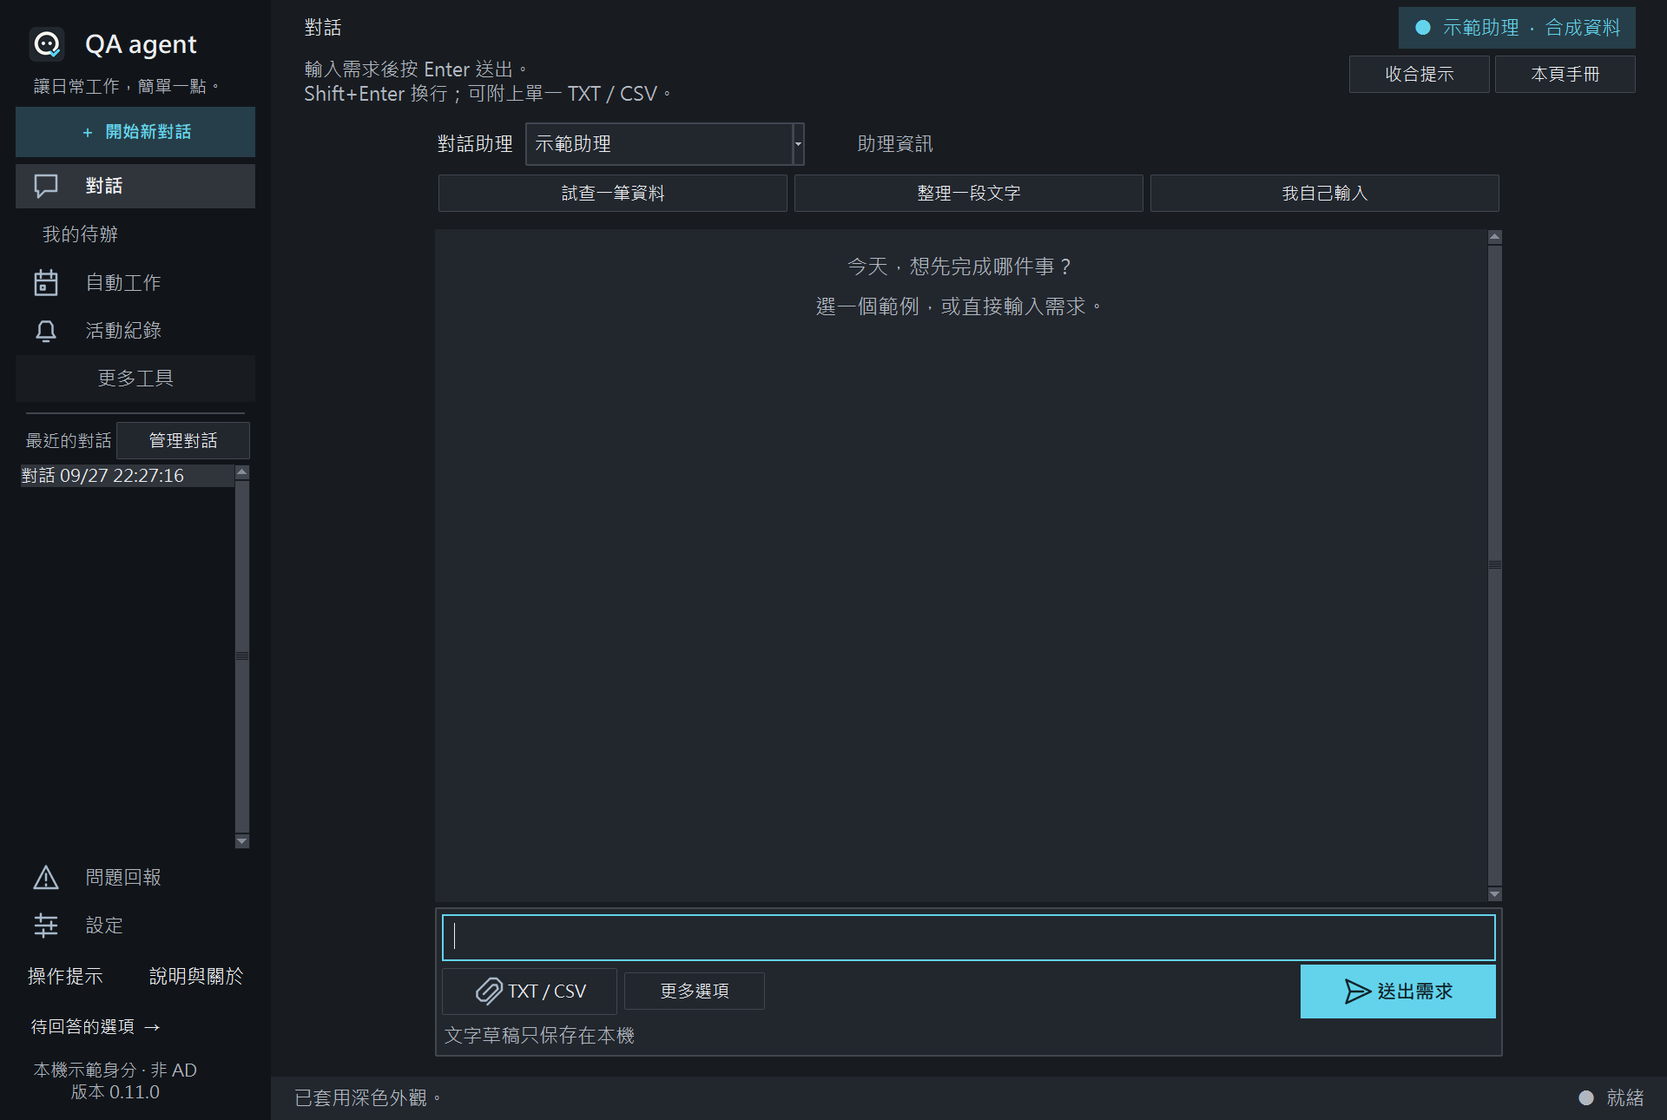
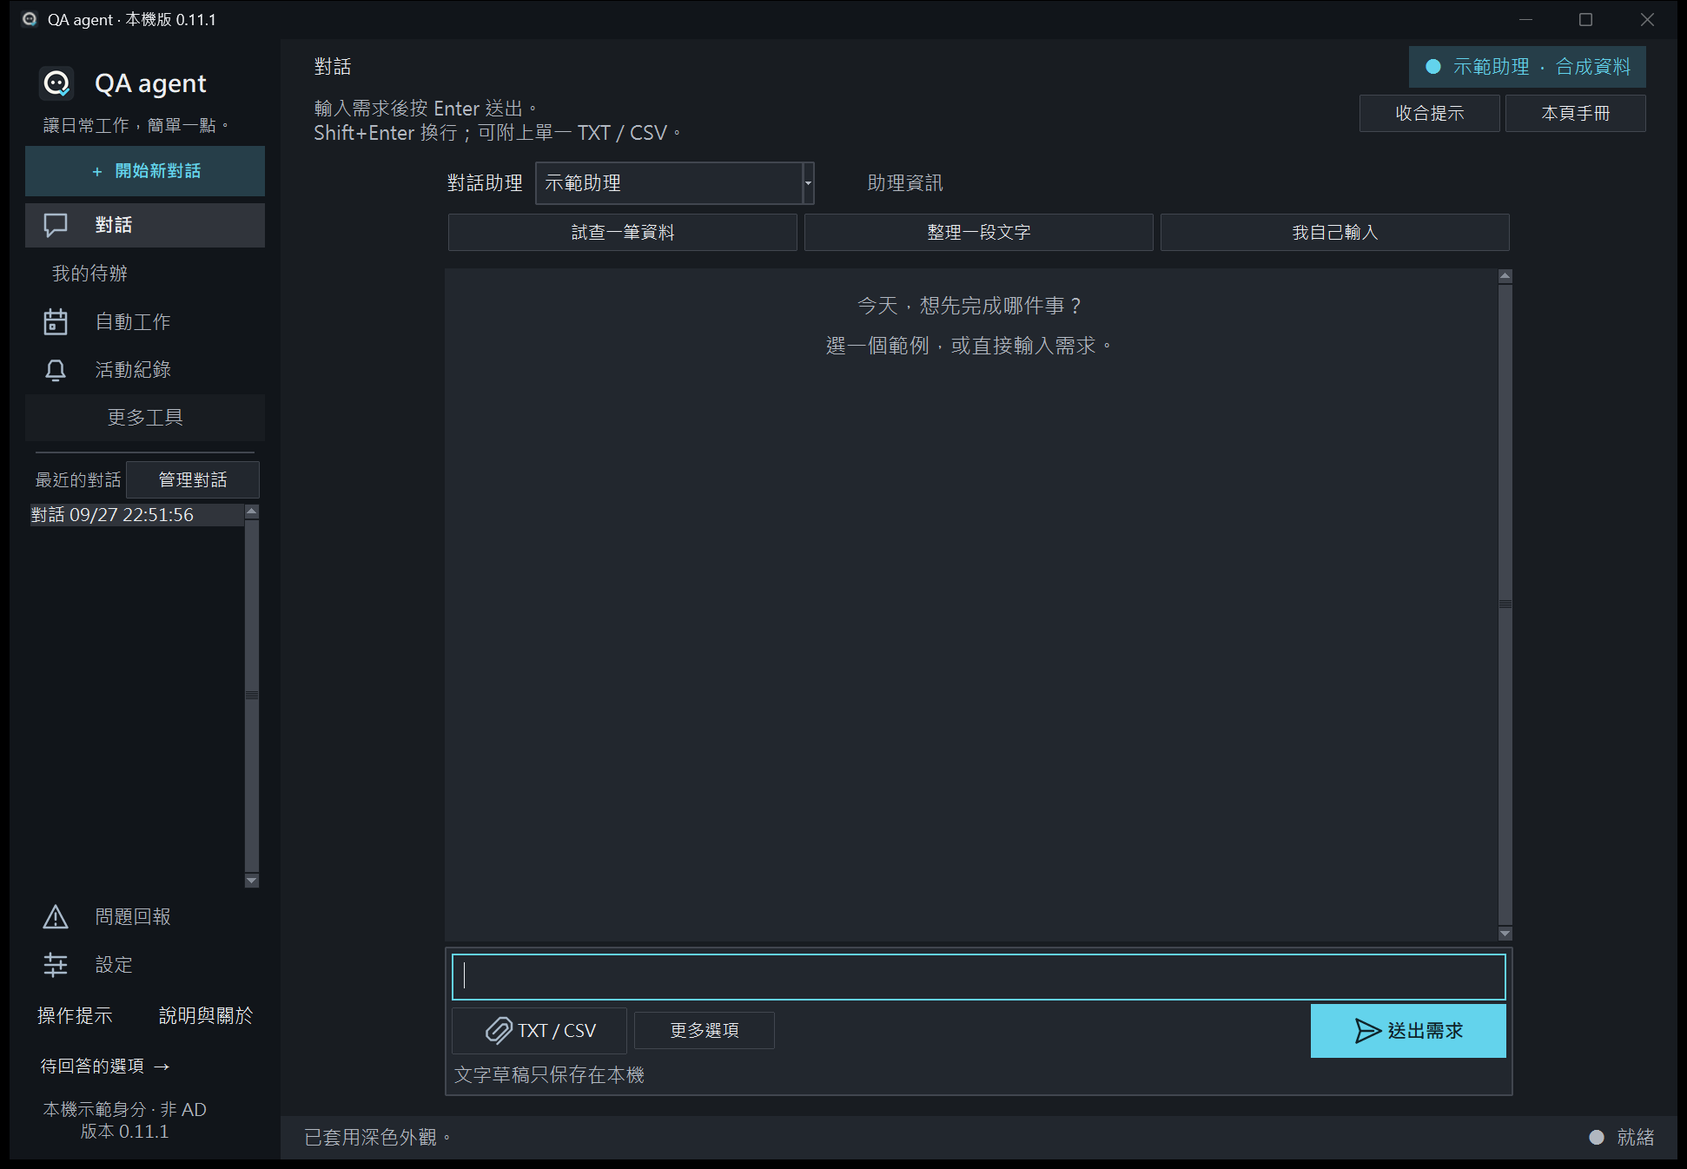
Release 0.11.1 themed dialogs and native title bars

diff --git a/desktop_app/dialogs.py b/desktop_app/dialogs.py
@@ -1,0 +1,87 @@
+"""Theme-aware app messages. Native fallback only before appearance is available."""
+import tkinter as tk
+from tkinter import ttk, messagebox as native
+from .branding import apply_child_icons, APP_NAME
+from .display import Display, work_area
+
+
+class MessageDialog(tk.Toplevel):
+    def __init__(self,parent,title,message,kind='info',question=False):
+        super().__init__(parent)
+        self.withdraw();self.result=False if question else 'ok'
+        self.parent=parent;self.previous_grab=parent.grab_current();self.previous_focus=parent.focus_get()
+        self.title(APP_NAME+' · '+title)
+        if parent.winfo_viewable():self.transient(parent.winfo_toplevel())
+        apply_child_icons(self)
+        appearance=parent._root()._qa_appearance
+        display=getattr(parent._root(),'_qa_display',None) or Display(parent._root())
+        body=ttk.Frame(self,padding=20);body.pack(fill='both',expand=True)
+        heading=ttk.Frame(body);heading.pack(fill='x',pady=(0,10))
+        symbol='?' if question else '!' if kind in ('error','warning') else 'i'
+        ttk.Label(heading,text=symbol,style='DialogMark.TLabel',width=3,anchor='center').pack(side='left',padx=(0,10))
+        ttk.Label(heading,text=title,style='Section.TLabel',wraplength=440).pack(side='left',fill='x',expand=True)
+        buttons=ttk.Frame(body);buttons.pack(side='bottom',fill='x',pady=(14,0))
+        self.copy_status=tk.StringVar(value='')
+        ttk.Label(body,textvariable=self.copy_status,style='Muted.TLabel').pack(side='bottom',anchor='w')
+        if kind=='error':ttk.Label(body,text='請依訊息檢查輸入或設定；關閉此提示不會自動重試。',wraplength=510,style='Muted.TLabel').pack(side='bottom',anchor='w',pady=(10,0))
+        content=ttk.Frame(body);content.pack(fill='both',expand=True)
+        self.message_text=tk.Text(content,wrap='word',width=48,height=6,spacing1=0,spacing3=3)
+        self.message_text.pack(side='left',fill='both',expand=True)
+        scroll=ttk.Scrollbar(content,command=self.message_text.yview);scroll.pack(side='right',fill='y')
+        self.message_text.configure(yscrollcommand=scroll.set)
+        self.message_text.insert('1.0',str(message));self.message_text.configure(state='disabled')
+        self.copy_button=ttk.Button(buttons,text='複製訊息',command=self.copy_message)
+        self.copy_button.pack(side='left')
+        self.close_button=ttk.Button(buttons,text='取消' if question else '關閉',command=self.dismiss)
+        self.close_button.pack(side='right')
+        if question:
+            self.accept_button=ttk.Button(buttons,text='確認',style='Primary.TButton',command=lambda:self.dismiss(True))
+            self.accept_button.pack(side='right',padx=8)
+        else:self.close_button.configure(style='Primary.TButton')
+        self.protocol('WM_DELETE_WINDOW',self.dismiss);self.bind('<Escape>',lambda e:self.dismiss())
+        self.bind('<Return>',self.enter)
+        display.size_window(self,600,360,(420,260));appearance.apply(self)
+        self.update_idletasks()
+        x,y,width,height=work_area(parent)
+        px=parent.winfo_rootx()+(parent.winfo_width()-self.winfo_width())//2
+        py=parent.winfo_rooty()+(parent.winfo_height()-self.winfo_height())//2
+        self.geometry(f'+{max(x,min(px,x+width-self.winfo_width()))}+{max(y,min(py,y+height-self.winfo_height()-display.px(40)))}')
+        self.deiconify();self.wait_visibility();self.grab_set();self.close_button.focus_set()
+
+    def enter(self,event):
+        if isinstance(event.widget,ttk.Button):event.widget.invoke()
+        else:self.dismiss()
+        return 'break'
+
+    def copy_message(self):
+        try:
+            self.clipboard_clear();self.clipboard_append(self.message_text.get('1.0','end-1c'))
+            self.copy_status.set('訊息已複製。')
+        except tk.TclError:self.copy_status.set('無法使用剪貼簿，請選取文字後手動複製。')
+
+    def dismiss(self,accepted=False):
+        self.result=bool(accepted) if hasattr(self,'accept_button') else 'ok'
+        self.destroy()
+
+    def destroy(self):
+        try:
+            if self.grab_current()==self:self.grab_release()
+            super().destroy()
+            if self.previous_grab is not None and self.previous_grab.winfo_exists():self.previous_grab.grab_set()
+            if self.previous_focus is not None and self.previous_focus.winfo_exists():self.previous_focus.focus_set()
+        except tk.TclError:pass
+
+
+def _show(kind,title,message,parent=None,question=False,**options):
+    if parent is None or not hasattr(parent._root(),'_qa_appearance'):
+        method=native.askyesno if question else getattr(native,'show'+kind)
+        return method(title,message,parent=parent,**options)
+    dialog=MessageDialog(parent,title,message,kind,question)
+    parent.wait_window(dialog)
+    return dialog.result
+
+
+def showerror(title,message,**options):return _show('error',title,message,**options)
+def showwarning(title,message,**options):return _show('warning',title,message,**options)
+def showinfo(title,message,**options):return _show('info',title,message,**options)
+def askyesno(title,message,**options):return _show('info',title,message,question=True,**options)

diff --git a/tests/test_dialogs.py b/tests/test_dialogs.py
@@ -1,0 +1,75 @@
+import gc
+import tkinter as tk
+import ctypes
+from unittest import TestCase
+from unittest.mock import patch
+from desktop_app.theme import Appearance
+from desktop_app.display import Display
+from desktop_app.dialogs import MessageDialog,askyesno,showerror
+from desktop_app.window_chrome import apply_titlebar,colorref
+
+
+def windows_clipboard_text():
+    # Tk 8.6 clipboard_get can split long UTF-8 chunks incorrectly on Windows.
+    # Verify what Windows consumers actually receive, not that Tcl readback path.
+    user=ctypes.WinDLL('user32');kernel=ctypes.WinDLL('kernel32')
+    user.GetClipboardData.restype=ctypes.c_void_p
+    kernel.GlobalLock.argtypes=[ctypes.c_void_p];kernel.GlobalLock.restype=ctypes.c_void_p
+    kernel.GlobalUnlock.argtypes=[ctypes.c_void_p]
+    if not user.OpenClipboard(None):raise RuntimeError('clipboard busy')
+    try:
+        handle=user.GetClipboardData(13);pointer=kernel.GlobalLock(handle)
+        try:return ctypes.wstring_at(pointer).replace('\r\n','\n')
+        finally:kernel.GlobalUnlock(handle)
+    finally:user.CloseClipboard()
+
+
+class DialogTests(TestCase):
+    def setUp(self):
+        self.root=tk.Tk();self.root.geometry('800x600');Display(self.root)
+        self.appearance=Appearance(self.root,'dark');self.root.update()
+
+    def tearDown(self):
+        self.root.destroy();self.root=None;self.appearance=None;gc.collect()
+
+    def test_long_message_theme_copy_and_close_without_mutation(self):
+        entry=tk.Text(self.root);entry.pack();entry.insert('1.0','原草稿');entry.focus_force()
+        text='查詢失敗，請核對條件。\n'*120
+        dialog=MessageDialog(self.root,'操作未完成',text,'error');self.root.update()
+        self.assertEqual(dialog.grab_current(),dialog)
+        dialog.copy_message();self.root.update();self.assertEqual(windows_clipboard_text(),text)
+        self.appearance.configure('light');self.root.update()
+        self.assertEqual(dialog.message_text.cget('background'),self.appearance.colors.SURFACE)
+        self.assertEqual(dialog.message_text.get('1.0','end-1c'),text)
+        self.assertLessEqual(dialog.close_button.winfo_rooty()+dialog.close_button.winfo_height(),dialog.winfo_rooty()+dialog.winfo_height())
+        dialog.dismiss();self.assertEqual(entry.get('1.0','end-1c'),'原草稿')
+
+    def test_confirmation_defaults_cancel_escape_and_explicit_accept(self):
+        dialog=MessageDialog(self.root,'確認操作','合成條件',question=True);self.root.update()
+        self.assertEqual(dialog.focus_get(),dialog.close_button)
+        dialog.event_generate('<Escape>');self.root.update();self.assertFalse(dialog.result)
+        def accept():
+            for child in self.root.winfo_children():
+                if isinstance(child,MessageDialog):child.accept_button.invoke()
+        self.root.after(150,accept)
+        self.assertTrue(askyesno('確認','合成條件',parent=self.root))
+
+    def test_nested_grab_is_restored_and_copy_error_is_inline(self):
+        parent=tk.Toplevel(self.root);parent.grab_set();self.root.update()
+        dialog=MessageDialog(parent,'訊息','合成訊息')
+        with patch.object(dialog,'clipboard_append',side_effect=tk.TclError('busy')):dialog.copy_message()
+        self.assertIn('無法使用剪貼簿',dialog.copy_status.get())
+        dialog.dismiss();self.assertEqual(parent.grab_current(),parent)
+        parent.destroy()
+
+    def test_titlebar_optional_and_colorref(self):
+        self.assertEqual(colorref('#123456'),0x563412)
+        with patch('desktop_app.window_chrome.ctypes.WinDLL',side_effect=OSError('unsupported')):
+            self.assertFalse(apply_titlebar(self.root,'dark',self.appearance.colors)['supported'])
+        child=tk.Toplevel(self.root);self.root.update()
+        self.assertTrue(hasattr(child,'_qa_chrome_status'))
+        self.appearance.configure('light');self.root.update();child.destroy()
+
+    def test_startup_fallback_without_appearance(self):
+        with patch('desktop_app.dialogs.native.showerror',return_value='ok') as native:
+            self.assertEqual(showerror('啟動','合成訊息'),'ok');native.assert_called_once()

diff --git a/desktop_app/theme.py b/desktop_app/theme.py
@@ -2,6 +2,7 @@
 from types import SimpleNamespace
 import tkinter as tk
 from tkinter import ttk
+from .window_chrome import apply_titlebar
 
 FONT = 'Microsoft JhengHei'
 _TOKENS = {
@@ -24,11 +25,18 @@ def palette(name):
 class Appearance:
     def __init__(self, root, name='dark'):
         self.root = root
+        root._qa_appearance=self
+        root.bind('<Map>',self._mapped,add='+')
+        root.bind_class('Toplevel','<Map>',self._mapped,add='+')
         self.style = ttk.Style(root)
         self.style.theme_use('clam')
         self.name = name
         self.colors = palette(name)
         self.configure(name)
+
+    def _mapped(self,event):
+        if isinstance(event.widget,(tk.Tk,tk.Toplevel)):
+            apply_titlebar(event.widget,self.name,self.colors)
 
     def configure(self, name):
         self.name = name
@@ -63,6 +71,7 @@ class Appearance:
         s.configure('Muted.TLabel',foreground=c.MUTED)
         s.configure('Title.TLabel',font=(FONT,16,'bold'))
         s.configure('Section.TLabel',font=(FONT,11,'bold'))
+        s.configure('DialogMark.TLabel',background=c.TINT,foreground=c.ACCENT,font=(FONT,20,'bold'),padding=6)
         s.configure('Surface.TLabel',background=c.SURFACE)
         s.configure('Empty.TLabel',background=c.SURFACE,foreground=c.MUTED)
         s.configure('Chip.TLabel',background=c.TINT,foreground=c.ACCENT,padding=(10,5),font=(FONT,10,'bold'))
@@ -125,7 +134,9 @@ class Appearance:
         if display:display.scale_widget(widget)
         sidebar=sidebar or getattr(widget,'_theme_role','')=='sidebar'
         role=getattr(widget,'_theme_role','')
-        if isinstance(widget,(tk.Tk,tk.Toplevel)): widget.configure(background=c.BG)
+        if isinstance(widget,(tk.Tk,tk.Toplevel)):
+            widget.configure(background=c.BG)
+            apply_titlebar(widget,self.name,c)
         elif isinstance(widget,tk.Text):
             widget.configure(background=c.SURFACE,foreground=c.INK,insertbackground=c.INK,
                 selectbackground=c.TINT,selectforeground=c.INK,highlightbackground=c.BORDER,highlightcolor=c.ACCENT)

diff --git a/desktop_app/window_chrome.py b/desktop_app/window_chrome.py
@@ -1,0 +1,35 @@
+"""Optional native Windows frame colors; keep system window controls and behavior."""
+import ctypes
+from ctypes import wintypes
+import sys
+import tkinter as tk
+
+
+def colorref(color):
+    red, green, blue = (int(color[i:i+2], 16) for i in (1, 3, 5))
+    return red | (green << 8) | (blue << 16)
+
+
+def apply_titlebar(window, name, colors):
+    if sys.platform != 'win32':
+        return {'supported':False}
+    try:
+        user=ctypes.WinDLL('user32',use_last_error=True)
+        user.GetAncestor.argtypes=[wintypes.HWND,wintypes.UINT]
+        user.GetAncestor.restype=wintypes.HWND
+        hwnd=user.GetAncestor(window.winfo_id(),2)
+        setter=ctypes.WinDLL('dwmapi').DwmSetWindowAttribute
+        setter.argtypes=[wintypes.HWND,wintypes.DWORD,ctypes.c_void_p,wintypes.DWORD]
+        setter.restype=ctypes.c_long
+        result={}
+        for key,attribute,value in [('dark',20,int(name=='dark')),
+                                    ('caption',35,colorref(colors.SIDEBAR)),
+                                    ('text',36,colorref(colors.INK)),
+                                    ('border',34,colorref(colors.BORDER))]:
+            data=wintypes.DWORD(value)
+            result[key]=setter(hwnd,attribute,ctypes.byref(data),ctypes.sizeof(data))==0
+        result['supported']=result['caption']
+        window._qa_chrome_status=result
+        return result
+    except (OSError,AttributeError,tk.TclError):
+        return {'supported':False}

diff --git a/desktop_app/ui.py b/desktop_app/ui.py
@@ -9,7 +9,8 @@ from concurrent.futures import ThreadPoolExecutor
 from datetime import date, timedelta
 from pathlib import Path
 import tkinter as tk
-from tkinter import ttk, messagebox, filedialog
+from tkinter import ttk, filedialog
+from . import dialogs as messagebox
 from . import __version__
 from . import theme
 from .preferences import load_theme, save_theme

diff --git a/desktop_app/assistant_views.py b/desktop_app/assistant_views.py
@@ -2,7 +2,8 @@
 import copy
 import json
 import tkinter as tk
-from tkinter import ttk, messagebox
+from tkinter import ttk
+from . import dialogs as messagebox
 from .branding import apply_child_icons
 from .gateways import GatewayError
 from .display import scroll_frame

diff --git a/desktop_app/draft_views.py b/desktop_app/draft_views.py
@@ -1,7 +1,8 @@
 """Debounced, local-only composer recovery with stale-write fences."""
 import copy
 from concurrent.futures import ThreadPoolExecutor
-from tkinter import ttk, messagebox
+from tkinter import ttk
+from . import dialogs as messagebox
 
 
 class DraftViews:

diff --git a/desktop_app/__init__.py b/desktop_app/__init__.py
@@ -1,2 +1,2 @@
 """QA agent local desktop. Company services are explicit adapters."""
-__version__ = "0.11.0"
+__version__ = "0.11.1"

diff --git a/docs/VALIDATION.md b/docs/VALIDATION.md
@@ -1,12 +1,12 @@
-# QA agent 0.11.0 驗證摘要
+# QA agent 0.11.1 驗證摘要
 
-本版新增原對話確認、查詢結果與自動工作，SQLite 升級 schema 4；沒有新增套件或虛擬環境。正式驗證使用 `D:/unit-helper-spec/.venv/Scripts/python.exe`，恰好 CPython 3.10.4、Windows x64。
+本版統一應用訊息框與原生標題列主題；沿用對話操作及 schema 4，沒有新遷移；沒有新增套件或虛擬環境。正式驗證使用 `D:/unit-helper-spec/.venv/Scripts/python.exe`，恰好 CPython 3.10.4、Windows x64。
 
 ## 本輪回歸
 
-2026-09-27 完整 **299 項測試通過，0 skipped**；命令、直譯器與完整輸出見 [development.json](validation/development.json)。`scripts/verify.py development` 的環境診斷、pip check、鎖檔一致性及完整 unittest 均通過。保留既有263項行為基準，新增36項操作服務與真Tk旅程測試；輸入区改為1～4行後同步更新展開／收回斷言。
+2026-09-27 完整 **304 項測試通過，0 skipped**；命令、直譯器與完整輸出見 [development.json](validation/development.json)。`scripts/verify.py development` 的環境診斷、pip check、鎖檔一致性及完整 unittest 均通過。保留299項基準，新增5項訊息框與原生標題列測試。
 
-首輪發現活動頁偏好未登記、條件式按鈕舊斷言及文字整理誤判為查詢，未記為通過；修正後重跑。獨立流程檢查發現舊修訂取消、新舊解析刷新、Plan／卡片交易及來源提示問題，均納入修正與測試。
+真Tk新增涵蓋：長訊息／主題切換、複製、預設取消與Escape、明確批准、巢狀grab恢復、剪貼簿失敗、原生API不支援及啟動fallback。長中文的Tk clipboard_get讀回出現分段編碼問題；以Windows原生CF_UNICODETEXT核對實際內容完整，沒有把讀回失敗直接當通過。
 
 29 個鎖定套件不變，沿用唯一開發環境。舊 [乾淨重建](validation/clean-rebuild.json) 與 [離線重建](validation/offline-rebuild.json) 各192項是既有0.8.0證據，不代表本輪重跑；不重建離線包。
 
@@ -35,7 +35,7 @@
 
 正式啟動 DPI 模式 system，本機 Windows 倍率150%。實際尺寸：1050×700邏輯→1575×1050，1280×860→1920×1290；最大化由可用工作區决定。原始截圖使用程式自身視窗及暫存合成資料，未擷取私人桌面。
 
-[顯示量測](validation/display-current.json) 與 [使用手冊四張精選畫面](USER-GUIDE.md#介面參考)。完整檢查圖存忽略目錄 artifacts/action-preview，不累積到Git。100／125／150／200%尺寸換算測試保留，真Windows100／125／200%與跨螢幕即時重排仍not_tested。
+[顯示量測](validation/display-current.json) 與 [使用手冊四張精選畫面](USER-GUIDE.md#介面參考)。本輪主視窗及錯誤提示的深淺原始截圖含原生標題列，存於忽略目錄 artifacts/dialog-preview；DWM設定在本機主視窗及提示框皆回傳成功，已目視確認標題列顏色。既有工作流程畫面量測保留；精選四張圖更新為當前工作區及提示框，不累積到Git。100／125／150／200%尺寸換算測試保留，真Windows100／125／200%與跨螢幕即時重排仍not_tested。
 
 ## 人工接手走查
 

diff --git a/COMPANY-HANDOFF.md b/COMPANY-HANDOFF.md
@@ -1,6 +1,6 @@
 # QA agent 公司接手工作單
 
-目前版本 **0.11.0**，已完成本機桌面與接手工具；沿用本機待辦、常用工作與草稿恢復，圖示已隨外觀切換，無須公司重新接線。公司 API、AD、Oracle 與現場 Excel／IME 驗收仍為 **not_tested**。目前沒有公司原始碼、成功 API 樣本或資料庫規格，不能保證只填三個參數就全部接通。
+目前版本 **0.11.1**，已完成本機桌面與接手工具；沿用本機待辦、常用工作與草稿恢復，圖示已隨外觀切換，無須公司重新接線。公司 API、AD、Oracle 與現場 Excel／IME 驗收仍為 **not_tested**。目前沒有公司原始碼、成功 API 樣本或資料庫規格，不能保證只填三個參數就全部接通。
 
 先讀 [開發守則](AGENTS.md)、[產品與架構](docs/PROJECT.md)、[驗證紀錄](docs/VALIDATION.md)。已完成多助理、keyring、對話與刪除、Plan／選項、TXT／CSV、三項合成查詢、表格／匯出、本機排程／通知、回報草稿、深淺主題、DPI 與原地提示。沿用現有畫面及 Protocol；GPT 6 sol 是開發 agent，不是產品模型 ID。
 
@@ -125,7 +125,7 @@
 ## 可直接貼給 GPT 6 sol
 
 ~~~text
-請接手 QA agent 0.11.0 的公司接線。先讀 AGENTS.md、README.md、COMPANY-HANDOFF.md、docs/PROJECT.md 和 docs/VALIDATION.md。沿用 Windows x64、Python 恰好 3.10.4、Tkinter、SQLite、OpenAI SDK 與現有測試；不要重做 GUI、恢復獨立體驗、另建中央平台或產品多代理。
+請接手 QA agent 0.11.1 的公司接線。先讀 AGENTS.md、README.md、COMPANY-HANDOFF.md、docs/PROJECT.md 和 docs/VALIDATION.md。沿用 Windows x64、Python 恰好 3.10.4、Tkinter、SQLite、OpenAI SDK 與現有測試；不要重做 GUI、恢復獨立體驗、另建中央平台或產品多代理。
 
 先盤點公司已有程式、成功 API 範例及環境，依 COMPANY-HANDOFF 的資訊表確認缺項；找得到就沿用，缺少時一次問最少必要問題並繼續獨立可做工作。不要猜 URL、assistant ID 傳送位置、session、AD／SQL 欄位或秘密；秘密不貼對話、不進 repo／log。
 

diff --git a/docs/USER-GUIDE.md b/docs/USER-GUIDE.md
@@ -189,6 +189,10 @@ Groq 試用才啟用已驗證的結構化解析；公司模式未接解析能力
 
 若仍覺得模糊，請記錄 Windows 顯示倍率、螢幕配置、啟動方式，以及一般／最大化哪個狀態出現；提供不含公司資料的原始截圖協助核對。不同倍率螢幕間移動後的即時重排未列為本版保證，可先在主要使用螢幕重新開啟程式再比對；不要自行改系統相容性或防毒設定當作通用解法。
 
+錯誤、警告、資訊及一般確認提示會跟隨應用主題。長訊息可以捲動或選取，按「複製訊息」可複製完整內容；關閉不會自動重試。確認提示預設選擇取消，Escape 也會取消。
+
+主視窗與附屬視窗的標題列配合深淺色，保留 Windows 拖曳、縮放及關閉操作。系統不支援標題列著色時保留原生外觀；檔案選擇器及主題尚未初始化的啟動錯誤沿用系統外觀。
+
 「說明與關於 → 關於」可看版本。本版沒有遠端自動更新、EXE 打包或中央管理；更新依維護者提供的專案與環境重建流程進行。不要自行刪除資料目錄。
 
 ## 常見問題與診斷
@@ -223,12 +227,12 @@ Groq 試用才啟用已驗證的結構化解析；公司模式未接解析能力
 
 ## 介面參考
 
-以下為 0.11.0 真 Tk 畫面，全使用合成資料；日報畫面是待確認草稿，未啟用。
+以下為 0.11.1 真 Tk 畫面，全使用合成資料。提示框內文字是合成錯誤範例。
 
 ![深色對話入口](images/workspace-dark.png)
 
 ![淺色對話入口](images/workspace-light.png)
 
-![原對話查詢結果](images/conversation-query.png)
+![深色錯誤提示](images/error-dark.png)
 
-![自動工作核對與授權](images/daily-report.png)
+![淺色錯誤提示](images/error-light.png)
